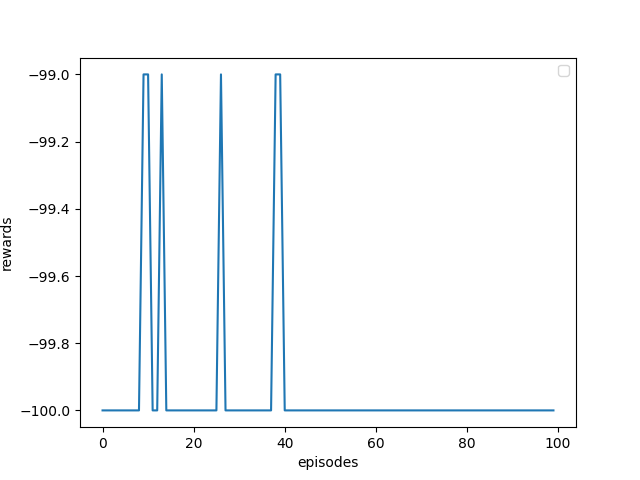
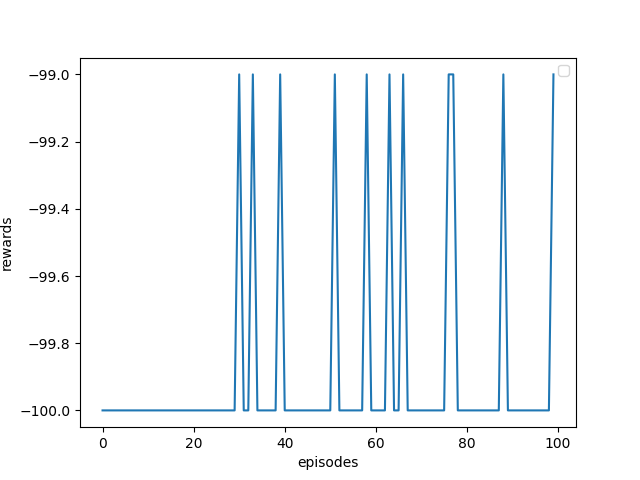
Iteration 4

diff --git a/agent.py b/agent.py
@@ -16,7 +16,7 @@ class Agent:
 
         # Q-learning hyperparameters
         self.gamma = 0.95  # Discount rate
-        self.epsilon = 0.6339884914710667  # Exploration rate
+        self.epsilon = 0.5742020104539416 # Exploration rate
         self.epsilon_min = 0.1  # Minimal exploration rate
         self.epsilon_decay = 0.999  # Decay rate for epsilon
 
